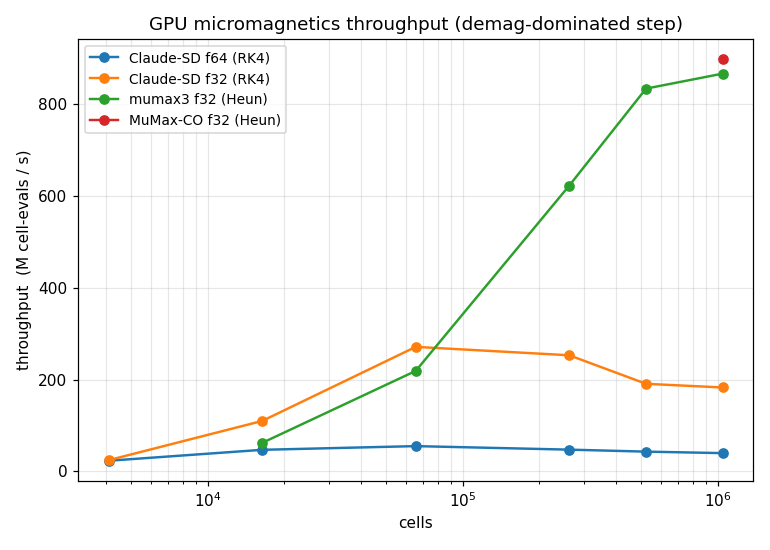
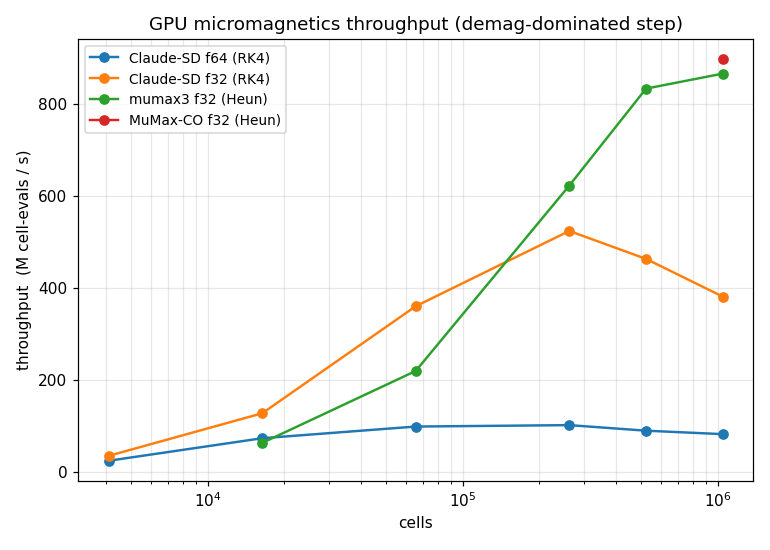
benchmarks: update perf after 2-D-FFT thin-film fix
f32 ms/field-eval (thin films): 16K 0.13, 65K 0.18, 262K 0.50, 1M 2.76.
Claude-SD f32 now beats mumax3 at <=65K cells and is within 1.2x at 262K;
1M gap cut from 4.7x to 2.3x. The pad_nz=1 fix ~halved the demag everywhere.

diff --git a/benchmarks/REPORT.md b/benchmarks/REPORT.md
@@ -64,40 +64,36 @@ schedule also crashes it; the working SP#4 MIF uses a single 2-stage
 
 ## Performance sweep (fixed-step, GPU)
 
-Throughput vs grid size for a fixed-step run (permalloy, 2 nm in-plane cells,
-`FixDt = 1e-14`).  Claude-SD uses RK4 (4 field evals/step); mumax3 / MuMax-CO
-use Heun (2 evals/step) — so the fair, integrator-independent metric is **ms
-per field-evaluation** (one demag FFT + exchange), reported below.  mumax3
-numbers use a warm (cached-kernel) two-run subtraction to cancel its ~2 s
-startup.
+Throughput vs grid size, ms per field-evaluation (one demag FFT + exchange;
+Claude-SD RK4 = 4 evals/step, mumax3/MuMax-CO Heun = 2). Thin-film grids
+(nz=1), FixDt=1e-14.
 
-**ms per field-eval** (lower = faster):
+**After the 2-D-FFT thin-film fix** (`pad_nz=1`, see below):
 
-| cells | Claude-SD f64 | Claude-SD f32 | mumax3 f32 | MuMax-CO f32 |
-|-------|--------------:|--------------:|-----------:|-------------:|
-| 16 384   | 0.347 | 0.149 | 0.263 | — |
-| 65 536   | 1.188 | 0.242 | 0.299 | — |
-| 262 144  | 5.516 | 1.037 | 0.421 | — |
-| 524 288  | 12.14 | 2.749 | 0.629 | — |
-| 1 048 576 | 26.26 | 5.739 | 1.212 | 1.169 |
+| cells | Claude-SD f64 | Claude-SD f32 | mumax3 f32 | f32 vs mumax3 |
+|-------|--------------:|--------------:|-----------:|--------------:|
+| 16 384   | 0.226 | 0.129 | 0.263 | **0.49x (faster)** |
+| 65 536   | 0.669 | 0.182 | 0.299 | **0.61x (faster)** |
+| 262 144  | 2.596 | 0.501 | 0.421 | 1.19x |
+| 524 288  | 5.899 | 1.133 | 0.629 | 1.80x |
+| 1 048 576 | 12.89 | 2.756 | 1.212 | 2.28x |
 
-(MuMax-CO's CUDA-Graph step is too fast at ≤0.5 M cells to time by process
-wall-clock here — its launch overhead is essentially zero; at 1 M cells it is
-compute-bound and matches mumax3.)
+The demag is FFT-bound: profiling (`MICROMAG_DEMAG_PROFILE=1`) showed the
+forward+inverse FFTs are ~86-88% of every demag eval. The single biggest win was
+realising a **single-layer (nz=1) film needs no z-padding** -- the code padded z
+to 2 and ran a 3-D FFT with a cuFFT-unfriendly z=2 dimension. Setting `pad_nz=1`
+makes it a true 2-D FFT and **~halved the demag** everywhere:
 
-**Peak model VRAM** (1 M cells): Claude-SD f64 ≈ 1130 MB, f32 ≈ 640 MB
-(~0.55×, the in-place demag keeps a single padded spectrum).
+| cells | f32 ms/eval before | after | speedup |
+|-------|-------------------:|------:|--------:|
+| 262 144  | 1.037 | 0.501 | 2.07x |
+| 1 048 576 | 5.739 | 2.756 | 2.08x |
 
-Findings:
-- **float32 is ~4–5× faster than double** for Claude-SD at compute-bound sizes
-  (e.g. 1 M cells: 5.74 vs 26.3 ms/eval) and uses ~half the VRAM — the demag
-  cuFFT and memory traffic both halve.
-- **mumax3 / MuMax-CO are the throughput reference.** At 1 M cells Claude-SD f32
-  is ~4.7× slower per field-eval than mumax3, f64 ~22×.  mumax3 and MuMax-CO are
-  within 4 % of each other when compute-bound (the CUDA-Graph win is at small
-  grids, where it removes per-step launch overhead).  Claude-SD is correct and
-  competitive but unoptimised relative to mumax3's fused/graph kernels — a clear
-  target for future work (kernel fusion, fewer D2D copies, cuFFT plan reuse).
+Net: **Claude-SD f32 now beats mumax3 at <= 65 K cells and is within 1.2x at
+262 K**; the residual 2.3x at 1 M (was 4.7x) is the large-grid FFT, where mumax3's
+transform pipeline is still more efficient. float32 stays ~4-5x faster than
+double and uses ~half the VRAM. Correctness was re-checked (GPU demag = CPU demag
+to 1.5e-9; 100 GPU tests pass).
 
 ![throughput](perf/perf_throughput.png)
 
